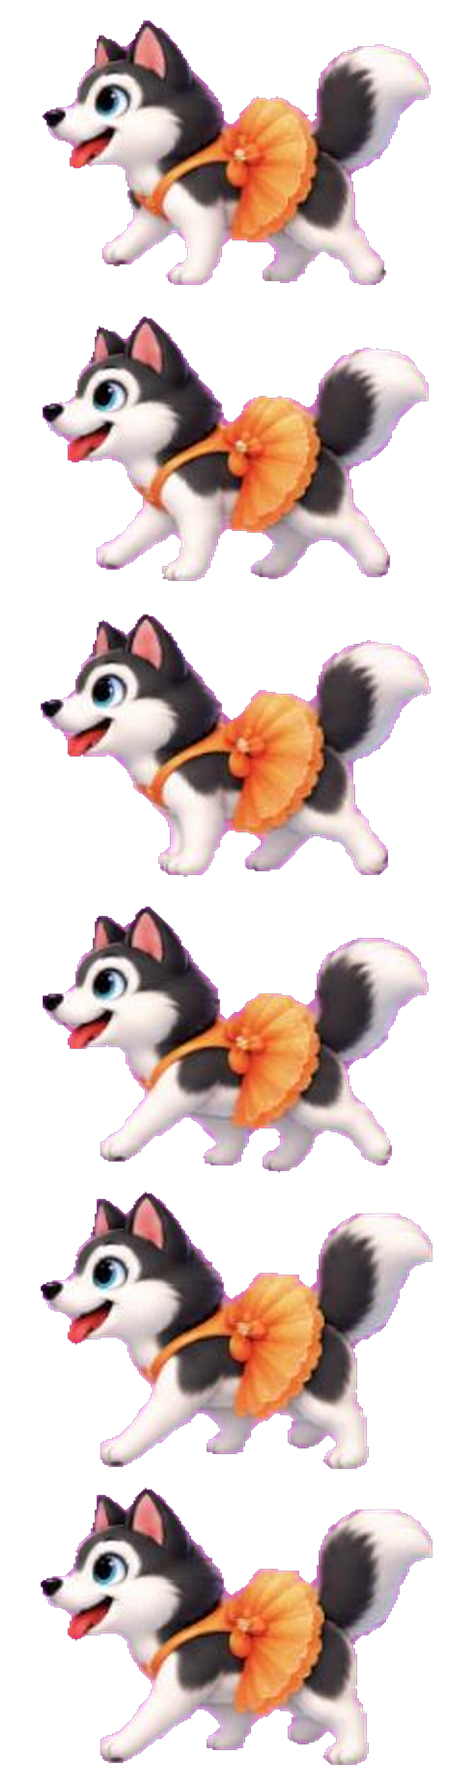
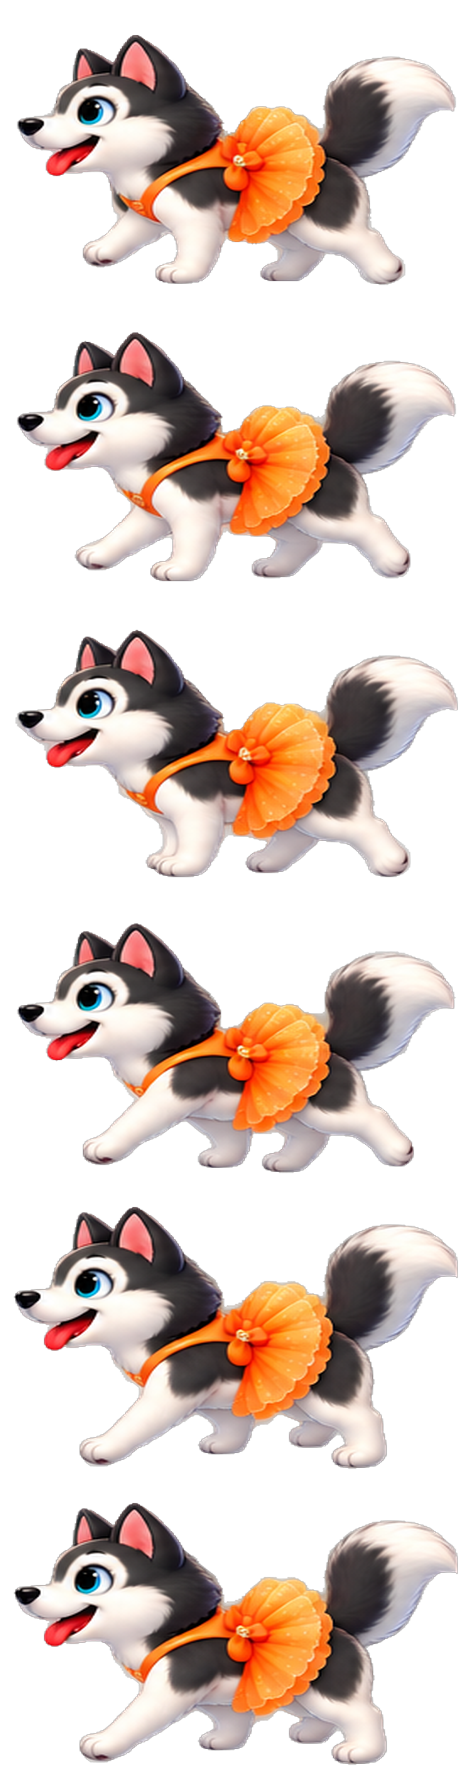
Replace the dog tutu sprites with a lossless re-extraction
Re-extracted all 4 tutu colors from a genuine lossless download of the
source PNG (real alpha channel, no chroma-key needed) instead of the
earlier screenshot-based pipeline. ~2.4x sharper (Laplacian variance
~545-592 vs ~234-243), verified live in-browser at both Character
Select and the store pedestal's larger size, with animation still
showing zero drift.

Getting the lossless source out of the browser needed a real Finder-
mediated file copy from the user - Chrome-downloaded files carry a
per-file macOS sandbox ACL (com.apple.macl) that blocks every command-
line tool regardless of Full Disk Access; only a Finder copy/Save As
clears it. Full story in CLAUDE.md.

diff --git a/CLAUDE.md b/CLAUDE.md
@@ -274,7 +274,7 @@ Each color's 5 extracted frames were resized to `dog_v2.png`'s native 473×296 p
 
 **Update: Full Disk Access was granted and did fix the original problem, but exposed a second, deeper wall.** After the grant, plain files in `~/Downloads` became fully readable/writable by every tool (`Bash` with `dangerouslyDisableSandbox`, `Read`, `Write`, Python) — confirmed with a bash-created control file. But a *Chrome-downloaded* file in that same folder still hard-fails (`EPERM`/`PermissionError`) on every actual content read (`cat`, `cp`, `xattr -l`, Python `open()`) from every tool, while `ls -la` (stat-only) succeeds fine on it. `ls -la@` reveals why: the file carries `com.apple.macl` (macOS's per-file sandbox ACL/"powerbox" extension) alongside the expected `com.apple.quarantine` — `com.apple.macl` restricts a sandboxed app's downloaded file to being readable *only by that app* (Chrome) regardless of Full Disk Access, since FDA is a folder-level TCC grant and this is a separate, file-level ACL layered on top. **This is not fixable from the command line at all** — confirmed no tool/binary combination gets past it, including `rm` (can't even delete the file this way). The standard real-world fix is a **Finder-mediated copy**: dragging the file in Finder (or Cmd+C/Cmd+V) to a different location, or opening it in Preview.app and using Save As/Export, both of which write a fresh file without the restrictive ACL — but that requires the user's hands-on-mouse action, not something drivable via chrome automation or the Bash tool.
 
-**Net effect: the lossless-download path is a dead end without direct user involvement at the OS/Finder level for each file**, which doesn't scale as a workflow (this project needs it once per asset-generation round, indefinitely into the future) — reconsider whether the actual ask (closing a 4.5x sharpness gap on 4 sprite files) is worth that recurring manual step versus living with the current screenshot-pipeline sprites, before asking the user to do it. If they do want to proceed: have them manually copy `~/Downloads/husky_tutu_lossless_v2.png` (already downloaded, confirmed present, 3,181,553 bytes, real lossless PNG straight off the ChatGPT share link) to some other path via Finder, then a session can pick up extraction from there directly — no need to re-download once that one manual copy happens.
+**Net effect: the lossless-download path needed direct user involvement at the OS/Finder level, but resolved cleanly once that happened.** The user did the Finder copy (`~/Downloads/husky_tutu_lossless_v2.png` → `/Users/scottprelewicz/Projects/husky_tutu_lossless_v2.png`), confirmed readable afterward (`open()` succeeded, real PNG header). **Re-extraction from the true 1536×1024 source, no chroma-key needed at all this time** — the source PNG's own alpha channel is genuine (background ~7-10, character ~250-252, a soft but real and clean edge), so the pipeline simplified to: per-color column strip → threshold/remap alpha for a sharper cutoff → connected-component labeling on the *whole strip* (same top-to-bottom-by-vertical-center frame-ordering trick as the drift fix above, still necessary — poses aren't evenly grid-aligned in this generation either) → crop each to its own bbox → bottom-anchor onto a shared per-color canvas → resize to native 473×296 → pad 5→6 by duplicating the last frame. **Result, measured**: sharpness roughly **2.4x better than the screenshot-pipeline sprites** (Laplacian variance ~545-592 vs. ~234-243), though still short of `dog_v2.png`'s own ~1084 — expected, since the true per-dog content in the source image is only ~260×195px natively, meaning even a perfect capture still needs a ~1.8x upscale to reach the 473×296 target, unlike `dog_v2.png` which was authored at that resolution directly. This is very likely the practical ceiling for this source image; closing the rest of the gap would need a higher-resolution regeneration from ChatGPT, not a better extraction. Verified live in-browser at both the Character Select card and the store pedestal's larger size, and confirmed the walk-cycle animation still shows zero drift. Shipped: `assets/dog_v2_tutu_{pink,teal,orange,green}.png` replaced, `seed_store.py`'s `sprite_src` bumped to `?v=3`, `seed_store` re-run.
 
 ## Mobile responsiveness (`js/utils/scale.js`, `orientationGate.js`, `touchControls.js`)
 Milestone-scope mobile support: the game requires landscape (a full-screen gate blocks portrait) rather than reworking layout for both orientations, but *within* landscape it scales correctly at any canvas size — every size in the game (furniture scale, wall thickness, character size/speed, floor tile size, UI chrome) used to be a fixed pixel value tuned against a desktop-sized canvas, which broke badly on a narrow mobile canvas (a single stove alone ate ~40% of board height on a 350px-wide canvas).
@@ -327,7 +327,7 @@ The LED is a live mouse-escape-danger meter. `GameScreen.updateEscapeDangerIndic
 - **White box on initial load (fixed) — root cause was a script/stylesheet ordering rule, not just the canvas's own CSS.** Two things compounded: (1) `<canvas class="bg-white">` showed a stark white box against the dark body background for anything left unpainted; (2) `<script type="module">` doesn't execute until every preceding stylesheet finishes loading, and Tailwind's CDN `<link>` was a 2.9MB uncompressed stylesheet — slow enough on mobile to stall the entire game boot. Fixed with `async` on the script tag (which doesn't wait for stylesheets, unlike plain `type="module"`) and dropping `bg-white` from the canvas. `async` also meant `main.js`'s top-level `document.getElementById('gameCanvas')` could theoretically run before `<body>` exists, so `main.js` now wraps init in a `document.readyState` check rather than assuming parse order.
 
 ## Planned work
-- **In-progress polish pass (as of 2026-08-23): sprite/animation crispness + store UI review.** User asked to get sprites/animations and the store UI as tight as possible before moving on to new content. Done so far: fixed the same idle-animate-while-standing-still bug in `Mouse.js`'s player-controlled path (mirrors `Dog.js`'s own fix — see `movePlayerMouse()`/`Mouse.stand()`). **The tutu-sprite crispness fix hit a second, deeper wall past Full Disk Access — see the dedicated writeup just above this section**: FDA fixed general `~/Downloads` access, but a Chrome-downloaded file specifically is still blocked from every command-line tool by a per-file `com.apple.macl` sandbox ACL that only Finder-mediated actions (a manual copy/Save As) can clear. Needs a user decision on whether that recurring manual step is worth it before continuing down this path. **Store UI review — done, two findings, both explicitly deferred by request.** (1) **Mouse looks wrong on the dressing-room pedestal** — `PORTRAITS.mouse`'s crop (`js/utils/outfits.js`, `{sx:327, sy:654, sw:327, sh:327}`, "south, frame 1") is a top-down "running toward camera" pose, the *only* camera angle `mouse_v2.png` has (see Mouse.js's own note: same true top-down camera as v1, no side-view art exists at all for this character). It reads fine small on the Character Select card, but blown up at the store's larger pedestal size it looks like the mouse is diving/falling rather than standing — confirmed live, side-by-side, at both sizes. No code-only fix meaningfully addresses this (the pose itself, not the crop rectangle, is the problem); a real fix needs new dedicated portrait art, same scope as the dog tutu round. **Explicitly deferred** — cosmetic-only impact since Mouse has no outfits to try on regardless, not worth another asset-generation round right now. (2) **Perk-only characters (Cat, Mouse) show the same info three times** — pedestal name, action button label, and the single perk's own list row all repeat, and the big boutique-pedestal presentation feels wasted with nothing to browse. **Explicitly deferred** — redundant but not broken, and reworking the layout risks destabilizing the Dog flow (cosmetics + perk, arrows, buy/equip/owned states) that's already confirmed working well across multiple wallet states.
+- **Polish pass (2026-08-23): sprite/animation crispness + store UI review — done.** User asked to get sprites/animations and the store UI as tight as possible before moving on to new content. Fixed the same idle-animate-while-standing-still bug in `Mouse.js`'s player-controlled path (mirrors `Dog.js`'s own fix — see `movePlayerMouse()`/`Mouse.stand()`). **The tutu-sprite crispness fix — resolved, see the dedicated writeup just above this section for the full path**: hit Full Disk Access, then a deeper `com.apple.macl` per-file ACL wall past that, resolved once the user did a Finder-mediated copy of the downloaded source PNG; re-extracted all 4 colors losslessly (~2.4x sharper than the original screenshot-pipeline sprites), shipped and verified live. **Store UI review — done, two findings, both explicitly deferred by request.** (1) **Mouse looks wrong on the dressing-room pedestal** — `PORTRAITS.mouse`'s crop (`js/utils/outfits.js`, `{sx:327, sy:654, sw:327, sh:327}`, "south, frame 1") is a top-down "running toward camera" pose, the *only* camera angle `mouse_v2.png` has (see Mouse.js's own note: same true top-down camera as v1, no side-view art exists at all for this character). It reads fine small on the Character Select card, but blown up at the store's larger pedestal size it looks like the mouse is diving/falling rather than standing — confirmed live, side-by-side, at both sizes. No code-only fix meaningfully addresses this (the pose itself, not the crop rectangle, is the problem); a real fix needs new dedicated portrait art, same scope as the dog tutu round. **Explicitly deferred** — cosmetic-only impact since Mouse has no outfits to try on regardless, not worth another asset-generation round right now. (2) **Perk-only characters (Cat, Mouse) show the same info three times** — pedestal name, action button label, and the single perk's own list row all repeat, and the big boutique-pedestal presentation feels wasted with nothing to browse. **Explicitly deferred** — redundant but not broken, and reworking the layout risks destabilizing the Dog flow (cosmetics + perk, arrows, buy/equip/owned states) that's already confirmed working well across multiple wallet states.
 - **Intro cutscene doesn't reflect the equipped outfit — noticed live, not yet fixed.** `GameScreen.startCutscenes()` constructs its own throwaway `Cat`/`Mouse`/`Dog` instances (`this.cutsceneCat`/`cutsceneMouse`/`cutsceneDog`) purely for the cutscene preview, entirely separate from `this.cat`/`this.mouse`/`this.dog` — so a cutscene always shows each character's plain default look regardless of what's actually equipped (confirmed live: Dummy's "meet the dog" cutscene showed the default purple-tutu `dog_v2.png` even with a teal tutu equipped and showing correctly everywhere else — Character Select, in-game, the store pedestal). Fix direction: either pass `equippedOutfits` into `startCutscenes()` and set each preview entity's `spriteSheet.src` via `getSpriteSrc()` before constructing the `Cutscene`, or fetch it the same way `GameScreen.init()` already does per-character.
 - **Backend outage currently blocks the game entirely — needs graceful degradation.** `SetupScreen.js`'s "Play Now" click handler awaits `kathrynQuickLogin()` (`js/utils/api.js`) and only calls `proceedToCharacterSelect()` on success; if `kpground-api` isn't reachable (confirmed live: a "Failed to fetch" network error), the player is stuck on the title screen and can never reach character select or gameplay at all. This is backwards from every other economy touchpoint in this game — `GameScreen`'s own wallet fetch, HUD, and store button all already degrade to "just don't show economy UI" when logged out or the API is unreachable (see Currency & economy system above), and the title screen should follow the same pattern: the API being down should never be fatal to the front end. Fix direction: let `kathrynQuickLogin()` failing still proceed to character select/gameplay (economy features simply staying hidden, same as any other logged-out session), rather than hard-blocking on it.
 - **"Dummy caught Mia!" dog-pauses-cat moment — shipped**, see "Dog-pauses-cat stun moment" above.
